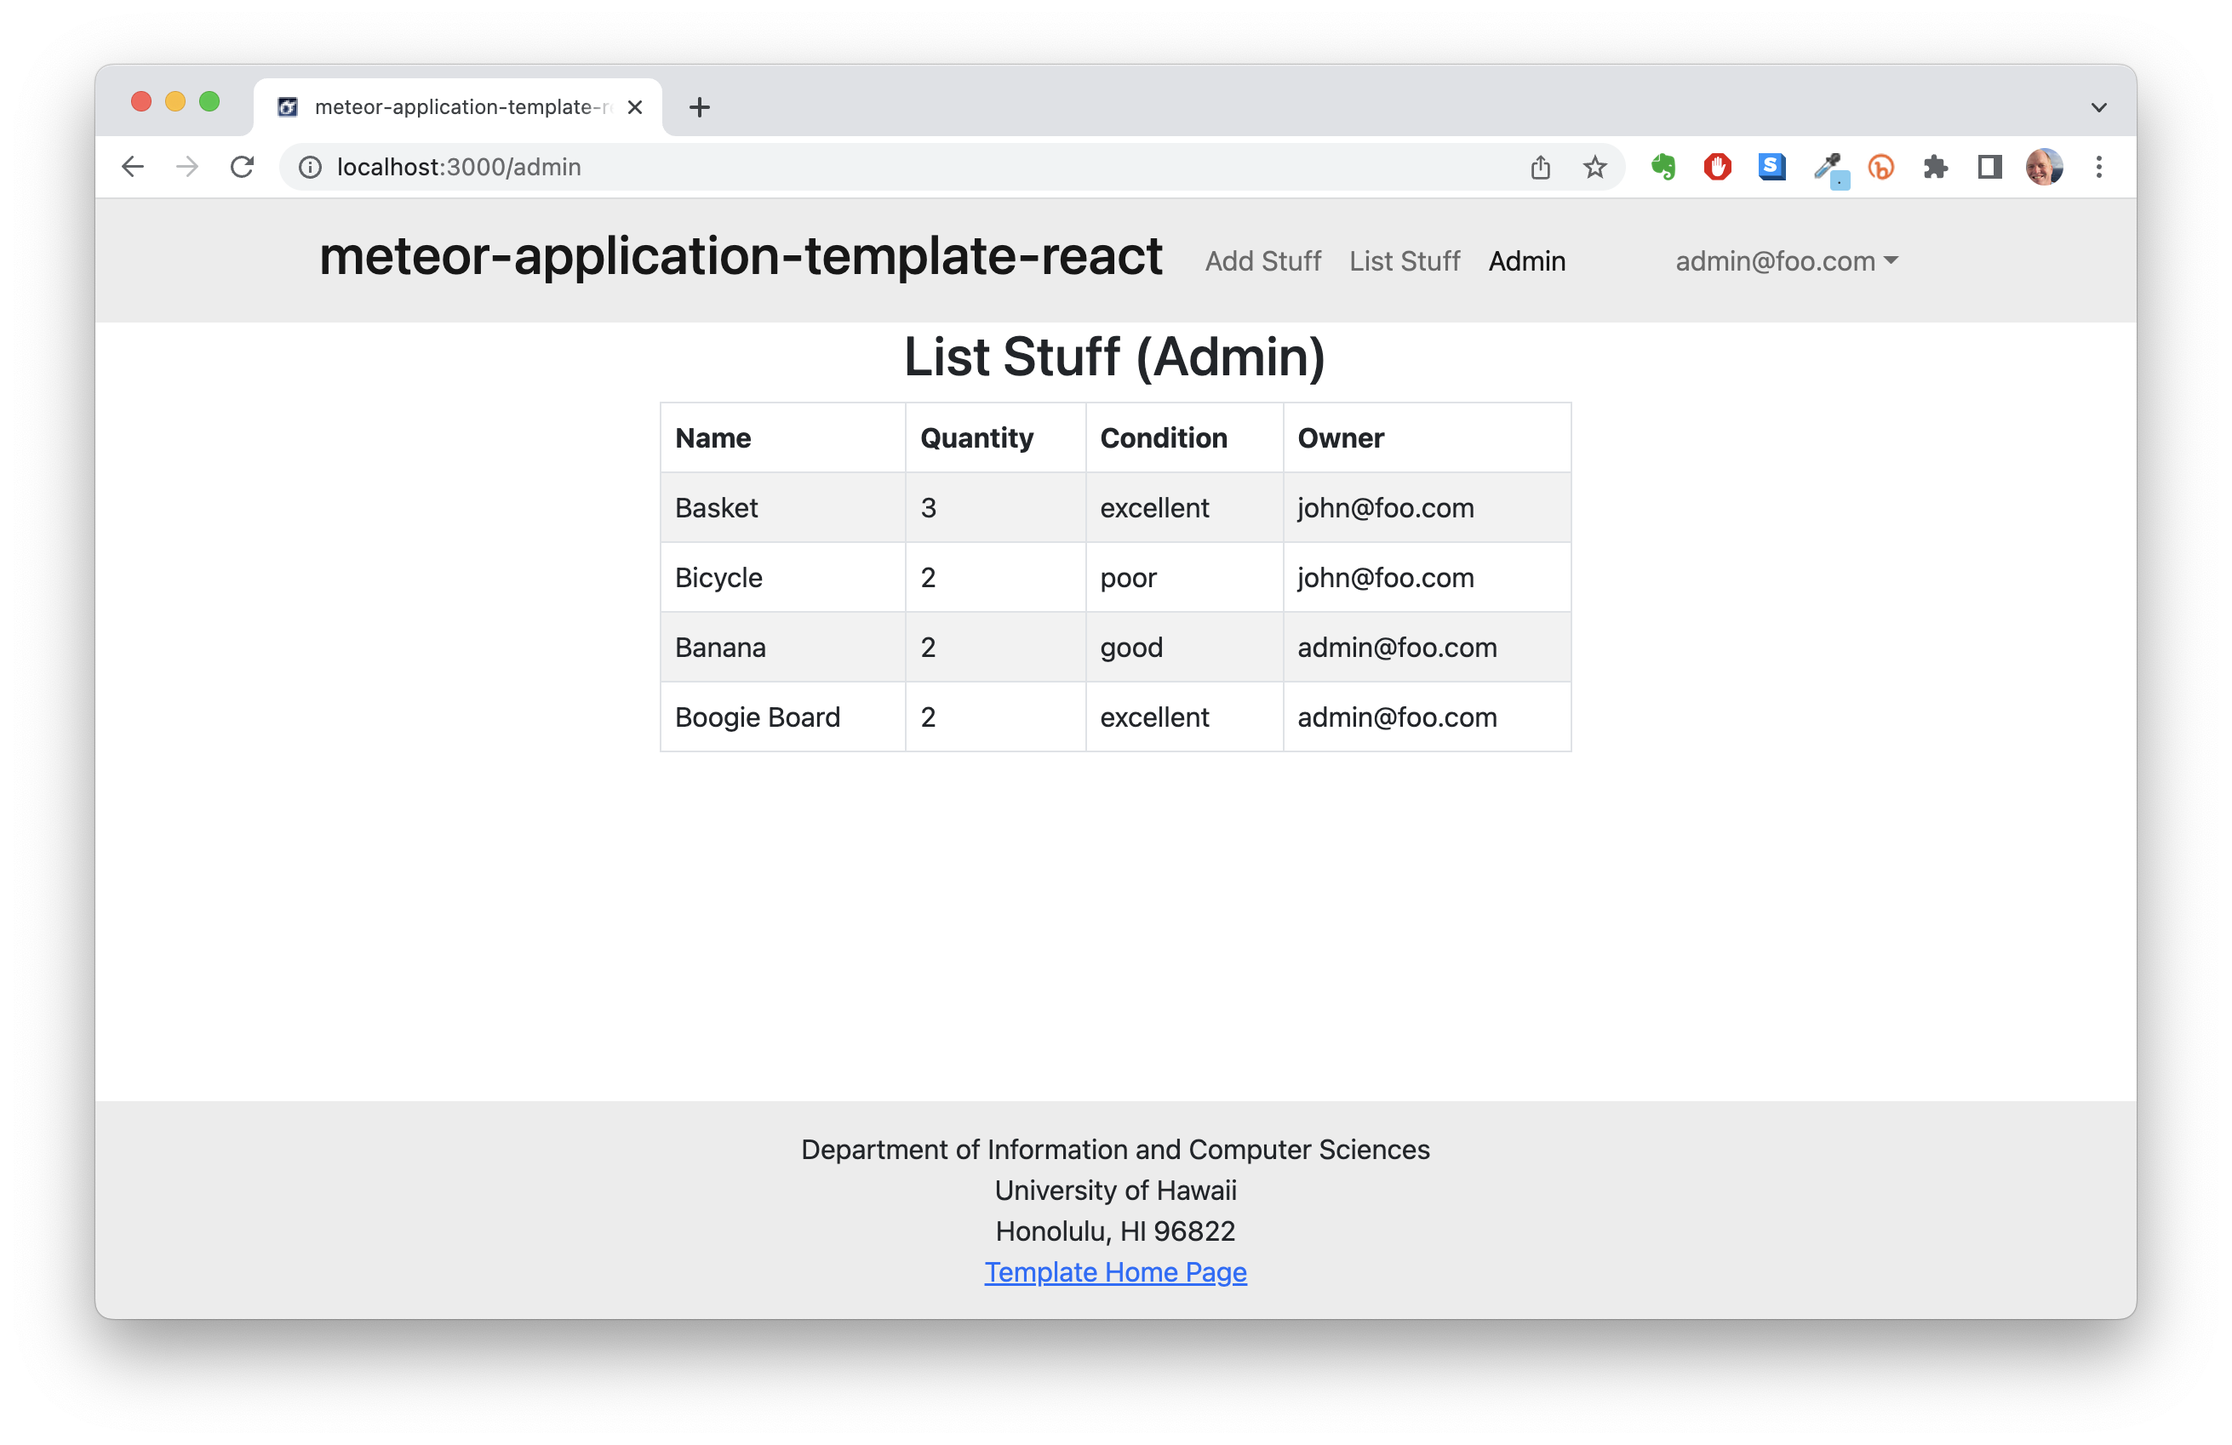
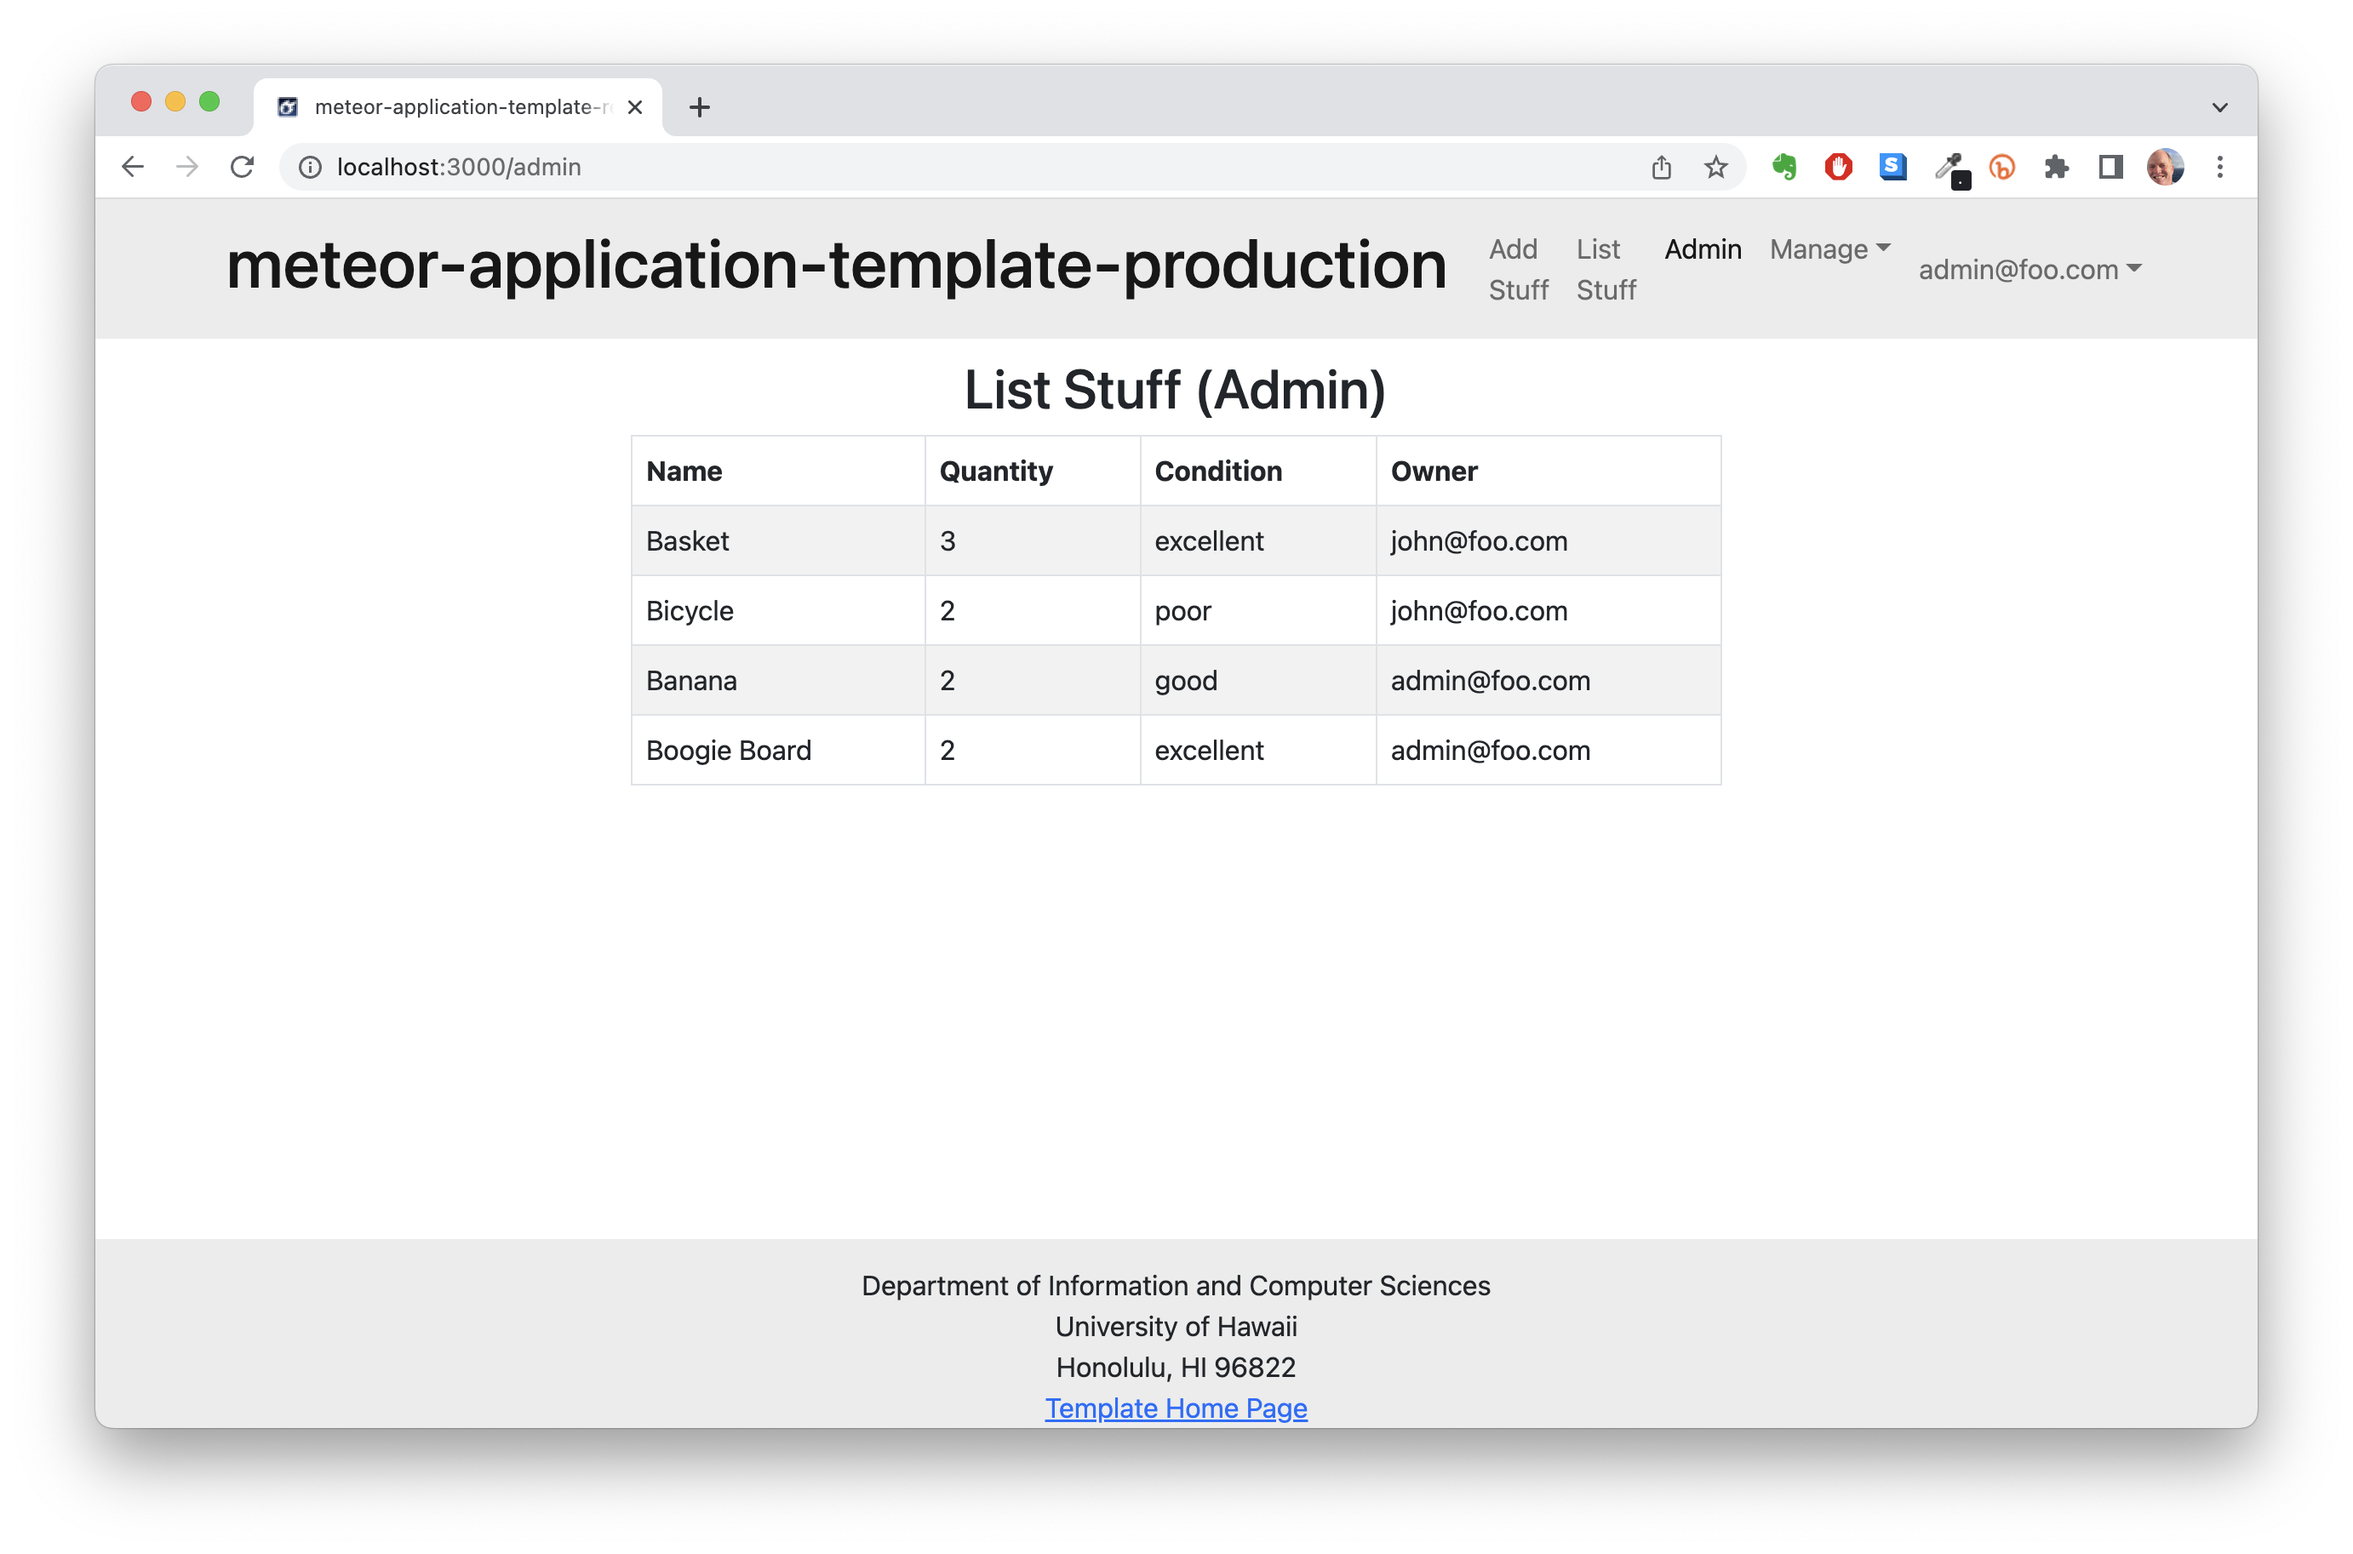
new images.

diff --git a/app/imports/ui/components/NavBar.jsx b/app/imports/ui/components/NavBar.jsx
@@ -22,21 +22,21 @@ const NavBar = () => {
         <Navbar.Collapse id={COMPONENT_IDS.NAVBAR_COLLAPSE}>
           <Nav className="me-auto justify-content-start">
             {currentUser ? ([
-              <Nav.Link id={COMPONENT_IDS.NAVBAR_ADD_STUFF} as={NavLink} exact to="/add" key="add">Add Stuff</Nav.Link>,
-              <Nav.Link id={COMPONENT_IDS.NAVBAR_LIST_STUFF} as={NavLink} exact to="/list" key="list">List Stuff</Nav.Link>,
+              <Nav.Link id={COMPONENT_IDS.NAVBAR_ADD_STUFF} as={NavLink} to="/add" key="add">Add Stuff</Nav.Link>,
+              <Nav.Link id={COMPONENT_IDS.NAVBAR_LIST_STUFF} as={NavLink} to="/list" key="list">List Stuff</Nav.Link>,
             ]) : ''}
             {Roles.userIsInRole(Meteor.userId(), [ROLE.ADMIN]) ? (
-              [<Nav.Link id={COMPONENT_IDS.NAVBAR_LIST_STUFF_ADMIN} as={NavLink} exact to="/admin" key="admin">Admin</Nav.Link>,
+              [<Nav.Link id={COMPONENT_IDS.NAVBAR_LIST_STUFF_ADMIN} as={NavLink} to="/admin" key="admin">Admin</Nav.Link>,
                 <NavDropdown id={COMPONENT_IDS.NAVBAR_MANAGE_DROPDOWN} title="Manage" key="manage-dropdown">
-                  <NavDropdown.Item id={COMPONENT_IDS.NAVBAR_MANAGE_DROPDOWN_DATABASE} key="manage-database" as={NavLink} exact to="/manage-database"><CloudDownload /> Database</NavDropdown.Item>
+                  <NavDropdown.Item id={COMPONENT_IDS.NAVBAR_MANAGE_DROPDOWN_DATABASE} key="manage-database" as={NavLink} to="/manage-database"><CloudDownload /> Database</NavDropdown.Item>
                 </NavDropdown>]
             ) : ''}
           </Nav>
           <Nav className="justify-content-end">
             {currentUser === '' ? (
               <NavDropdown id={COMPONENT_IDS.NAVBAR_LOGIN_DROPDOWN} title="Login">
-                <NavDropdown.Item id={COMPONENT_IDS.NAVBAR_LOGIN_DROPDOWN_SIGN_IN} as={NavLink} exact to="/signin"><PersonFill />Sign in</NavDropdown.Item>
-                <NavDropdown.Item id={COMPONENT_IDS.NAVBAR_LOGIN_DROPDOWN_SIGN_UP} as={NavLink} exact to="/signup"><PersonPlusFill />Sign up</NavDropdown.Item>
+                <NavDropdown.Item id={COMPONENT_IDS.NAVBAR_LOGIN_DROPDOWN_SIGN_IN} as={NavLink} to="/signin"><PersonFill />Sign in</NavDropdown.Item>
+                <NavDropdown.Item id={COMPONENT_IDS.NAVBAR_LOGIN_DROPDOWN_SIGN_UP} as={NavLink} to="/signup"><PersonPlusFill />Sign up</NavDropdown.Item>
               </NavDropdown>
             ) : (
               <NavDropdown id={COMPONENT_IDS.NAVBAR_CURRENT_USER} title={currentUser}>

diff --git a/index.md b/index.md
@@ -273,6 +273,166 @@ ESLint should run without generating any errors.
 
 It's significantly easier to do development with ESLint integrated directly into your IDE (such as IntelliJ).
 
+#### Unit testing
+
+The [package.json](https://github.com/ics-software-engineering/meteor-application-template-production/blob/main/app/package.json) file has a script called `test-unit`. This script uses the `meteor test` command. It searches for `*.test.js` files to run. These files are associated with the Collections. An example of the unit test follows:
+```shell
+meteor npm run test-unit
+
+> meteor-application-template-react@ test-unit /Users/carletonmoore/GitHub/ICS414/meteor-application-template-production/app
+> cross-env TEST_BROWSER_DRIVER=puppeteer MOCHA_TIMEOUT=150000 meteor test --exclude-archs web.browser.legacy,web.cordova --no-release-check --once --driver-package meteortesting:mocha --port 3100
+
+[[[[[ Tests ]]]]]                             
+
+=> Started proxy.                             
+=> Started HMR server.                        
+=> Started MongoDB.                           
+I20220713-10:33:55.520(-10)?                  
+I20220713-10:33:55.530(-10)? --------------------------------
+I20220713-10:33:55.530(-10)? ----- RUNNING SERVER TESTS -----
+I20220713-10:33:55.530(-10)? --------------------------------
+I20220713-10:33:55.531(-10)? 
+I20220713-10:33:55.531(-10)? 
+I20220713-10:33:55.531(-10)? 
+I20220713-10:33:55.531(-10)?   StuffCollection
+I20220713-10:33:55.544(-10)? Monti APM: completed instrumenting the app
+=> Started your app.
+
+=> App running at: http://localhost:3100/
+I20220713-10:33:55.941(-10)?     ✓ Can define and removeIt (407ms)
+I20220713-10:33:55.942(-10)?     ✓ Can define duplicates
+I20220713-10:33:56.043(-10)?     ✓ Can update (101ms)
+I20220713-10:33:56.047(-10)?     ✓ Can dumpOne, removeIt, and restoreOne
+I20220713-10:33:56.048(-10)? 
+I20220713-10:33:56.049(-10)?   AdminProfileCollection
+I20220713-10:33:56.133(-10)? Defining ADMIN Alayna.Rath98@yahoo.com with password changeme
+  [ SNIP... ]
+I20220713-10:34:02.619(-10)? Defining ADMIN Kendrick63@gmail.com with password changeme
+I20220713-10:34:02.682(-10)?     ✓ Can define and removeIt (6633ms)
+I20220713-10:34:02.683(-10)? Defining ADMIN Quinton55@hotmail.com with password changeme
+I20220713-10:34:02.744(-10)?     ✓ Cannot define duplicates (62ms)
+I20220713-10:34:02.745(-10)? Defining ADMIN Peyton.Kreiger@yahoo.com with password M0IA1WkjBAiw0xc
+I20220713-10:34:02.892(-10)?     ✓ Can update (148ms)
+I20220713-10:34:02.893(-10)? 
+I20220713-10:34:02.893(-10)?   UserProfileCollection
+I20220713-10:34:02.895(-10)? Defining USER Everett87@hotmail.com with password changeme
+  [ SNIP... ]
+I20220713-10:34:09.321(-10)? Defining USER Chase.Kuphal@hotmail.com with password changeme
+I20220713-10:34:09.385(-10)?     ✓ Can define and removeIt (6490ms)
+I20220713-10:34:09.385(-10)? Defining USER Zachary_McClure@hotmail.com with password changeme
+I20220713-10:34:09.446(-10)?     ✓ Cannot define duplicates (62ms)
+I20220713-10:34:09.447(-10)? Defining USER Jovan37@gmail.com with password HTBrtI65Hz6y6a2
+I20220713-10:34:09.591(-10)?     ✓ Can update (144ms)
+I20220713-10:34:09.591(-10)? 
+I20220713-10:34:09.592(-10)? 
+I20220713-10:34:09.592(-10)?   10 passing (14s)
+I20220713-10:34:09.592(-10)? 
+I20220713-10:34:09.592(-10)? 
+I20220713-10:34:09.592(-10)? --------------------------------
+I20220713-10:34:09.592(-10)? ----- RUNNING CLIENT TESTS -----
+I20220713-10:34:09.592(-10)? --------------------------------
+I20220713-10:34:09.864(-10)? HeadlessChrome/104.0.5109.0
+W20220713-10:34:10.867(-10)? (STDERR) UNKNOWN CONSOLE TYPE: warn
+W20220713-10:34:10.867(-10)? (STDERR) HMR: connected
+W20220713-10:34:10.871(-10)? (STDERR) UNKNOWN CONSOLE TYPE: warn
+W20220713-10:34:10.871(-10)? (STDERR)   0 passing (0ms)
+I20220713-10:34:10.909(-10)? All tests finished!
+I20220713-10:34:10.909(-10)? 
+I20220713-10:34:10.909(-10)? --------------------------------
+I20220713-10:34:10.909(-10)? SERVER FAILURES: 0
+I20220713-10:34:10.909(-10)? CLIENT FAILURES: 0
+I20220713-10:34:10.909(-10)? --------------------------------
+⋊> ~/G/I/m/app on main ⨯             
+```
+
+#### Integration testing
+
+The [package.json](https://github.com/ics-software-engineering/meteor-application-template-production/blob/main/app/package.json) file has a script called `test-integration`. This script uses the `meteor test --full-app --once` command. This `meteor test` looks for files `*.app-test.js`. In `meteor-application-template-production we are testing the Meteor methods. For example, the [StuffCollection.methods.app-test.js](https://github.com/ics-software-engineering/meteor-application-template-production/blob/main/app/imports/api/stuff/SuffCollection.methods.app-test.js) tests the define, update, and removeIt methods. Here's an example run:
+
+```shell
+% meteor npm run test-integration
+
+> meteor-application-template-react@ test-integration /Users/carletonmoore/GitHub/ICS414/meteor-application-template-production/app
+> cross-env METEOR_NO_RELEASE_CHECK=1 TEST_BROWSER_DRIVER=puppeteer meteor test --full-app --once --driver-package meteortesting:mocha --port 3100
+
+[[[[[ Tests ]]]]]                             
+
+=> Started proxy.                             
+=> Started HMR server.                        
+=> Started MongoDB.                           
+I20220713-10:49:00.149(-10)? Cannot initialize the database!  Please invoke meteor with a settings file.
+I20220713-10:49:00.314(-10)? 
+I20220713-10:49:00.315(-10)? --------------------------------
+I20220713-10:49:00.315(-10)? --- RUNNING APP SERVER TESTS ---
+I20220713-10:49:00.315(-10)? --------------------------------
+I20220713-10:49:00.315(-10)? 
+I20220713-10:49:00.316(-10)? 
+I20220713-10:49:00.317(-10)? 
+I20220713-10:49:00.317(-10)?   0 passing (0ms)
+I20220713-10:49:00.317(-10)? 
+I20220713-10:49:00.317(-10)? 
+I20220713-10:49:00.317(-10)? --------------------------------
+I20220713-10:49:00.317(-10)? --- RUNNING APP CLIENT TESTS ---
+I20220713-10:49:00.317(-10)? --------------------------------
+I20220713-10:49:00.402(-10)? Monti APM: completed instrumenting the app
+=> Started your app.
+
+=> App running at: http://localhost:3100/
+I20220713-10:49:00.706(-10)? HeadlessChrome/104.0.5109.0
+W20220713-10:49:01.574(-10)? (STDERR) Download the React DevTools for a better development experience: https://reactjs.org/link/react-devtools
+W20220713-10:49:02.092(-10)? (STDERR) HMR: connected
+W20220713-10:49:02.143(-10)? (STDERR) 
+W20220713-10:49:02.144(-10)? (STDERR)   StuffCollection Meteor Methods
+W20220713-10:49:02.670(-10)? (STDERR)     ✓ Can define, update, and removeIt (525ms)
+W20220713-10:49:02.671(-10)? (STDERR)   AdminProfileCollection Meteor Methods
+I20220713-10:49:03.105(-10)? Defining ADMIN Priscilla.Prosacco19@gmail.com with password changeme
+W20220713-10:49:03.190(-10)? (STDERR)     ✓ Can define, update, and removeIt (519ms)
+W20220713-10:49:03.192(-10)? (STDERR)   UserProfileCollection Meteor Methods
+I20220713-10:49:03.538(-10)? Defining USER Rowena.Boyer@gmail.com with password changeme
+W20220713-10:49:03.715(-10)? (STDERR)     ✓ Can define, update, and removeIt (522ms)
+W20220713-10:49:03.716(-10)? (STDERR)   3 passing (2s)
+I20220713-10:49:03.757(-10)? All tests finished!
+I20220713-10:49:03.757(-10)? 
+I20220713-10:49:03.758(-10)? --------------------------------
+I20220713-10:49:03.758(-10)? APP SERVER FAILURES: 0
+I20220713-10:49:03.758(-10)? APP CLIENT FAILURES: 0
+I20220713-10:49:03.758(-10)? --------------------------------
+%    
+```
+
+#### Acceptance testing
+
+`meteor-application-template-production` uses [TestCafe](https://testcafe.io/) for acceptance testing. The [package.json](https://github.com/ics-software-engineering/meteor-application-template-production/blob/main/app/package.json) file has three scripts for acceptance testing,
+
+1. `test-acceptance-development` This script runs all the acceptance test against a running development system.
+2. `test-acceptance-development-single` This script runs a single acceptance test against a running development system.
+3. `test-acceptance-ci` This script runs all the acceptance test durning continuous integration.
+
+In the development acceptance tests, TestCafe opens a browser and you can watch the tests.
+
+Here's an example run of the `test-acceptance-development` script:
+```shell
+% meteor npm run test-acceptance-development
+
+> meteor-application-template-react@ test-acceptance-development /Users/carletonmoore/GitHub/ICS414/meteor-application-template-production/app
+> testcafe chrome tests/*.testcafe.js
+
+ Running tests in:
+ - Chrome 103.0.5060.114 / macOS 10.15.7
+
+ meteor-application-template-production localhost test with default db
+Waiting 15 seconds before running LandingPage.isDisplayed().
+ ✓ Test that landing page shows up
+ ✓ Test that signin and signout work
+ ✓ Test that user pages show up
+ ✓ Test that sign up and sign out work
+ ✓ Test that admin pages show up
+
+
+ 5 passed (30s)
+%
+```
+
 ## Screencasts
 
 For more information about this system, please watch one or more of the following screencasts. Note that the current source code might differ slightly from the code in these screencasts, but the changes should be very minor.
